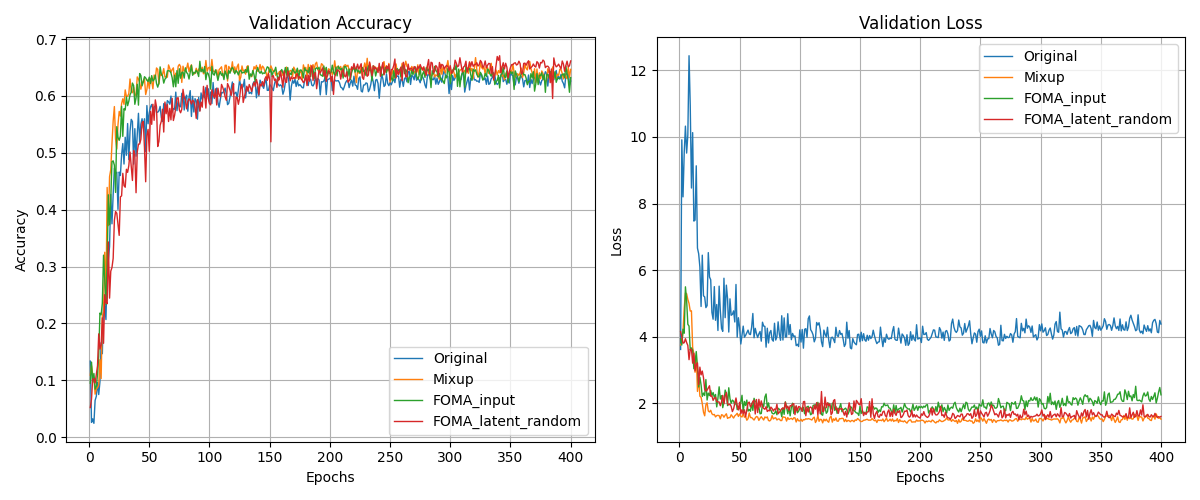
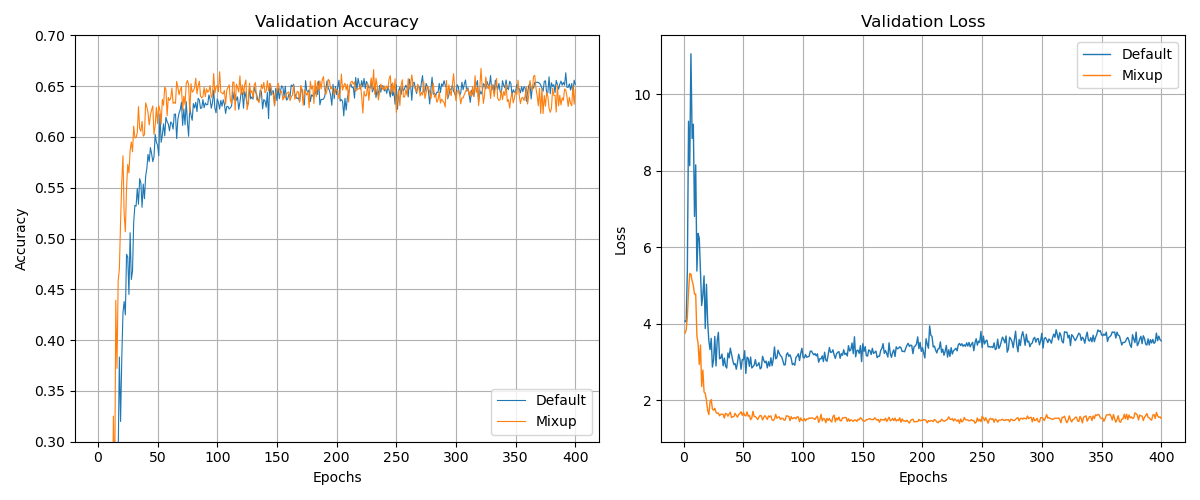
Default augmentation

diff --git a/train2.py b/train2.py
@@ -22,7 +22,7 @@ from src.models.wide_resnet import Wide_ResNet
 from sklearn.manifold import TSNE
 from foma import foma, foma_hard
 from torch.utils.data import Sampler
-from src.utils import train, val, test, mixup_data, mixup_criterion
+from src.utils import train, val, test, mixup_data, mixup_criterion, Cutout
 from batch_sampler import extract_wrn_features, FeatureKNNBatchSampler, HybridFOMABatchSampler
 from sklearn.neighbors import NearestNeighbors
 
@@ -52,18 +52,27 @@ def main():
             num_classes = 10
             batch_size  = 128
         
+        default_transform = transforms.Compose([
+            transforms.RandomHorizontalFlip(),
+            transforms.Pad(4),
+            transforms.RandomCrop(32),
+            transforms.ToTensor(),
+            transforms.Normalize(mean=[0.485, 0.456, 0.406], std=[0.229, 0.224, 0.225]),
+            Cutout(n_holes=1, length=16),
+        ])
+                
         # Loading Dataset
         if data_type == "stl10":
             transform     = transforms.Compose([transforms.ToTensor(), transforms.Normalize(mean=[0.485, 0.456, 0.406], std=[0.229, 0.224, 0.225])])
-            train_dataset = STL10(root="./data", split="test",  download=True, transform=transform)
+            train_dataset = STL10(root="./data", split="test",  download=True, transform=default_transform)
             test_dataset  = STL10(root="./data", split="train", download=True, transform=transform)
         elif data_type == "cifar100":
             transform     = transforms.Compose([transforms.ToTensor(), transforms.Normalize(mean=[0.485, 0.456, 0.406], std=[0.229, 0.224, 0.225])])
-            train_dataset = CIFAR100(root="./data", train=True,  transform=transform, download=True)
+            train_dataset = CIFAR100(root="./data", train=True,  transform=default_transform, download=True)
             test_dataset  = CIFAR100(root="./data", train=False, transform=transform, download=True)
         elif data_type == "cifar10":
             transform     = transforms.Compose([transforms.ToTensor(), transforms.Normalize(mean=[0.485, 0.456, 0.406], std=[0.229, 0.224, 0.225])])
-            train_dataset = CIFAR10(root="./data", train=True,  transform=transform, download=True)
+            train_dataset = CIFAR10(root="./data", train=True,  transform=default_transform, download=True)
             test_dataset  = CIFAR10(root="./data", train=False, transform=transform, download=True)
         
         n_samples = len(train_dataset)
@@ -123,12 +132,12 @@ def main():
         ###########################################################################################################################
         
         # Augmentation List
-        augmentations = {
-            # "Original",
-            # "Mixup",
+        augmentations = [
+            "Default",
+            "Mixup",
             "Manifold-Mixup",
             # "FOMA",
-            # "FOMA_latent_random",
+            "FOMA_latent_random",
 
             # "Mixup-Original",
             # "Mixup-PCA",
@@ -140,7 +149,7 @@ def main():
             # "FOMA_curriculum"
             # "FOMA_samebatch"
             # "FOMA_knn"
-        }
+        ]
 
         for augment in augmentations:
             train_loader = DataLoader(dataset=train_dataset, batch_size=batch_size, shuffle=True)

diff --git a/a.py b/a.py
@@ -22,8 +22,19 @@ from sklearn.manifold import TSNE
 from foma import foma, foma_hard
 from torch.utils.data import Sampler
 
+    
+default_transform = transforms.Compose([
+    transforms.RandomHorizontalFlip(),
+    transforms.Pad(4),
+    transforms.RandomCrop(32),
+    transforms.ToTensor(),
+    transforms.Normalize(mean=[0.485, 0.456, 0.406], std=[0.229, 0.224, 0.225]),
+    Cutout(n_holes=1, length=16),
+])
+
 transform = transforms.Compose([transforms.ToTensor(), transforms.Normalize(mean=[0.485, 0.456, 0.406], std=[0.229, 0.224, 0.225])])
-dataset = STL10(root="./data", split="test",  download=True, transform=transform)
+# dataset = STL10(root="./data", split="test",  download=True, transform=transform)
+dataset = CIFAR100(root="./data", train=True,  transform=default_transform, download=True)
 loader = torch.utils.data.DataLoader(dataset, batch_size=128, shuffle=False)
 
 
@@ -34,7 +45,7 @@ alpha = 1.0
 rho = 0.9
 
 # FOMA適用
-X_scaled, soft_labels = foma(images, labels, num_classes, alpha, rho)
+# X_scaled, soft_labels = foma(images, labels, num_classes, alpha, rho)
 
 # 逆正規化（CIFAR-10の場合）
 def denormalize(img):
@@ -59,20 +70,20 @@ for idx, i in enumerate(class_indices):
     plt.title(f'Original\nLabel: {labels[i].item()}')
 
     # FOMA画像
-    plt.subplot(2, num_classes, num_classes + idx + 1)
-    img_foma = denormalize(X_scaled[i].detach().cpu())
-    plt.imshow(img_foma.permute(1, 2, 0).numpy())
-    plt.axis('off')
-    max_prob, pred_class = torch.max(soft_labels[i], dim=0)
-    plt.title(f'FOMA\nLabel: {pred_class.item()}\n{max_prob.item():.3f}')
+    # plt.subplot(2, num_classes, num_classes + idx + 1)
+    # img_foma = denormalize(X_scaled[i].detach().cpu())
+    # plt.imshow(img_foma.permute(1, 2, 0).numpy())
+    # plt.axis('off')
+    # max_prob, pred_class = torch.max(soft_labels[i], dim=0)
+    # plt.title(f'FOMA\nLabel: {pred_class.item()}\n{max_prob.item():.3f}')
 
 plt.tight_layout()
-plt.savefig("./CIFAR10_FOMA_per_class.png")
+plt.savefig("./CIFAR100_default.png")
 
-# ソフトラベル出力（丸め済み）
-for idx, i in enumerate(class_indices):
-    probs = soft_labels[i].detach().cpu().numpy()
-    rounded_probs = [round(p, 3) for p in probs]
-    print(f"Class {labels[i].item()} soft label (probabilities): {rounded_probs}")
+# # ソフトラベル出力（丸め済み）
+# for idx, i in enumerate(class_indices):
+#     probs = soft_labels[i].detach().cpu().numpy()
+#     rounded_probs = [round(p, 3) for p in probs]
+#     print(f"Class {labels[i].item()} soft label (probabilities): {rounded_probs}")
 
 

diff --git a/src/utils.py b/src/utils.py
@@ -12,6 +12,46 @@ from torch.autograd import Variable
 from torch.utils.data import random_split, Subset, DataLoader
 from sklearn.metrics import accuracy_score
 
+class Cutout(object):
+    """
+    Randomly mask out one or more square patches from an image tensor.
+    Args:
+        n_holes (int): Number of patches to cut out of each image.
+        length (int): The length (in pixels) of each square patch.
+    """
+    def __init__(self, n_holes, length):
+        self.n_holes = n_holes
+        self.length = length
+
+    def __call__(self, img):
+        """
+        Args:
+            img (Tensor): Tensor image of size (C, H, W).
+        Returns:
+            Tensor: Image with n_holes of dimension length x length cut out.
+        """
+        h = img.size(1)
+        w = img.size(2)
+
+        mask = np.ones((h, w), np.float32)
+
+        for _ in range(self.n_holes):
+            y = random.randint(0, h - 1)
+            x = random.randint(0, w - 1)
+
+            y1 = np.clip(y - self.length // 2, 0, h)
+            y2 = np.clip(y + self.length // 2, 0, h)
+            x1 = np.clip(x - self.length // 2, 0, w)
+            x2 = np.clip(x + self.length // 2, 0, w)
+
+            mask[y1: y2, x1: x2] = 0.
+
+        mask = torch.from_numpy(mask)
+        mask = mask.expand_as(img)
+        img = img * mask
+
+        return img
+
 def train(model, train_loader, criterion, optimizer, device, augment, num_classes, aug_ok, epochs):
     model.train()
     train_loss = 0.0
@@ -24,7 +64,7 @@ def train(model, train_loader, criterion, optimizer, device, augment, num_classe
         # unique, counts = torch.unique(labels, return_counts=True)
         # print(f"[Batch Label Distribution] {dict(zip(unique.cpu().tolist(), counts.cpu().tolist()))}")
 
-        if augment == "Original":  
+        if augment == "Default":  
             preds = model(images, labels, device, augment, aug_ok)
             loss  = criterion(preds, labels)
         

diff --git a/result.py b/result.py
@@ -18,11 +18,11 @@ def main():
     model_type = args.model_type
     
     augmentations = [
-        "Original",
+        "Default",
         "Mixup",
         # "Manifold-Mixup",
-        "FOMA",
-        "FOMA_latent_random",
+        # "FOMA",
+        # "FOMA_latent_random",
 
         # "Mixup-Original",
         # "Mixup-PCA",
@@ -74,13 +74,15 @@ def plot_comparison_graph(model_type, augmentations, data_type, epoch, iteration
 
         if augment == "FOMA":
             augment = "FOMA_input"
-        plt.plot(epochs, val_acc, linestyle='solid', linewidth=1, label=f'{augment}')
+        plt.plot(epochs, val_acc, linestyle='solid', linewidth=0.8, label=f'{augment}')
         
     plt.title('Validation Accuracy')
     plt.xlabel('Epochs')
     plt.ylabel('Accuracy')
     plt.legend()
     plt.grid(True)
+    plt.ylim(bottom=0.3, top=0.7)
+
     
     ### Loss ###
     plt.subplot(1, 2, 2)

diff --git a/src/models/wide_resnet.py b/src/models/wide_resnet.py
@@ -155,6 +155,17 @@ class Wide_ResNet(nn.Module):
                 out = out.view(out.size(0), -1)
                 out = self.linear(out)
                 return out
+                
+        else:
+            out = self.conv1(x)
+            out = self.layer1(out)
+            out = self.layer2(out)
+            out = self.layer3(out)
+            out = F.relu(self.bn1(out))
+            out = F.avg_pool2d(out, 8)
+            out = out.view(out.size(0), -1)
+            out = self.linear(out)
+            return out
     
     def extract_features(self, x):
         out = self.conv1(x)
